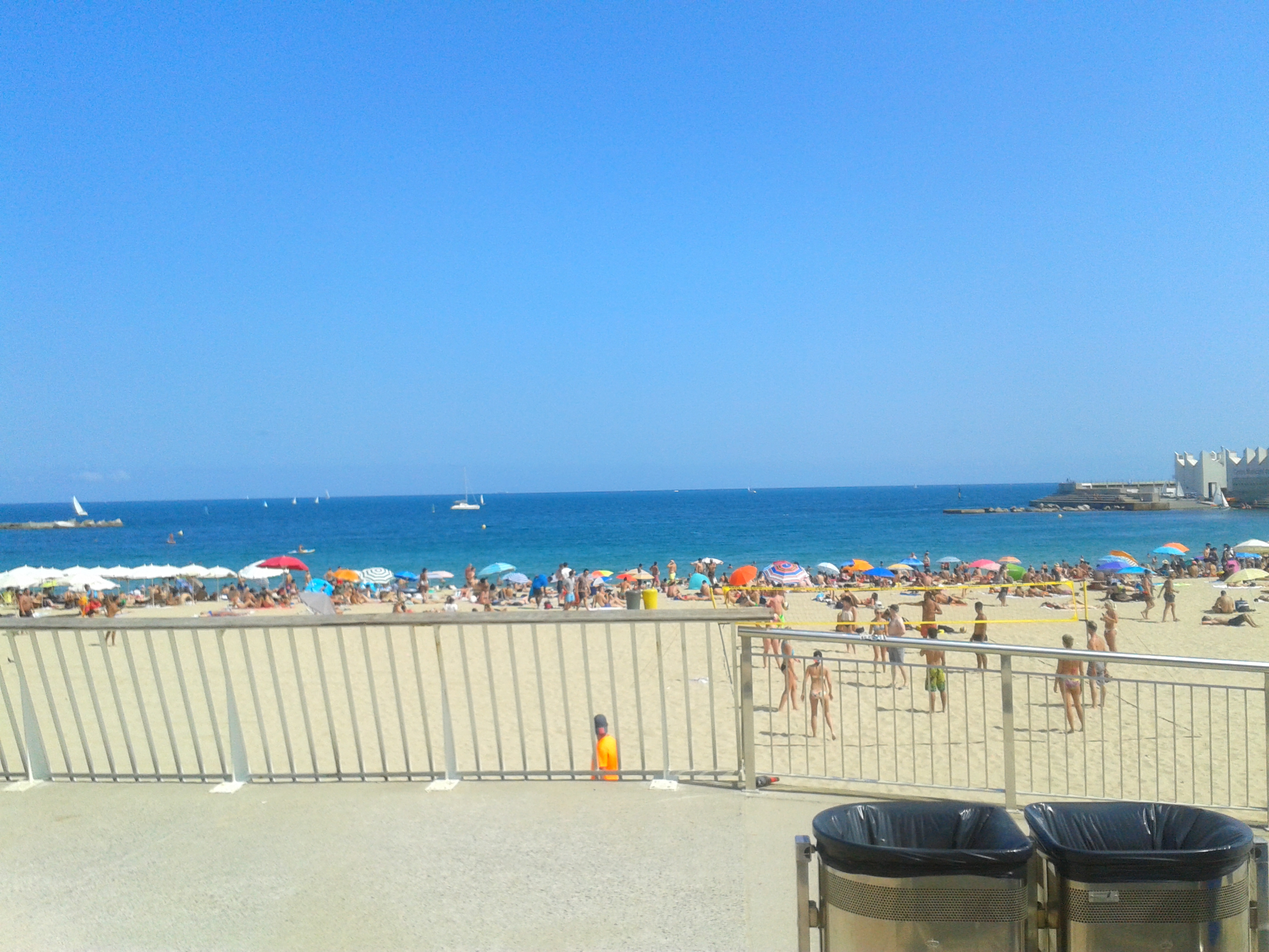
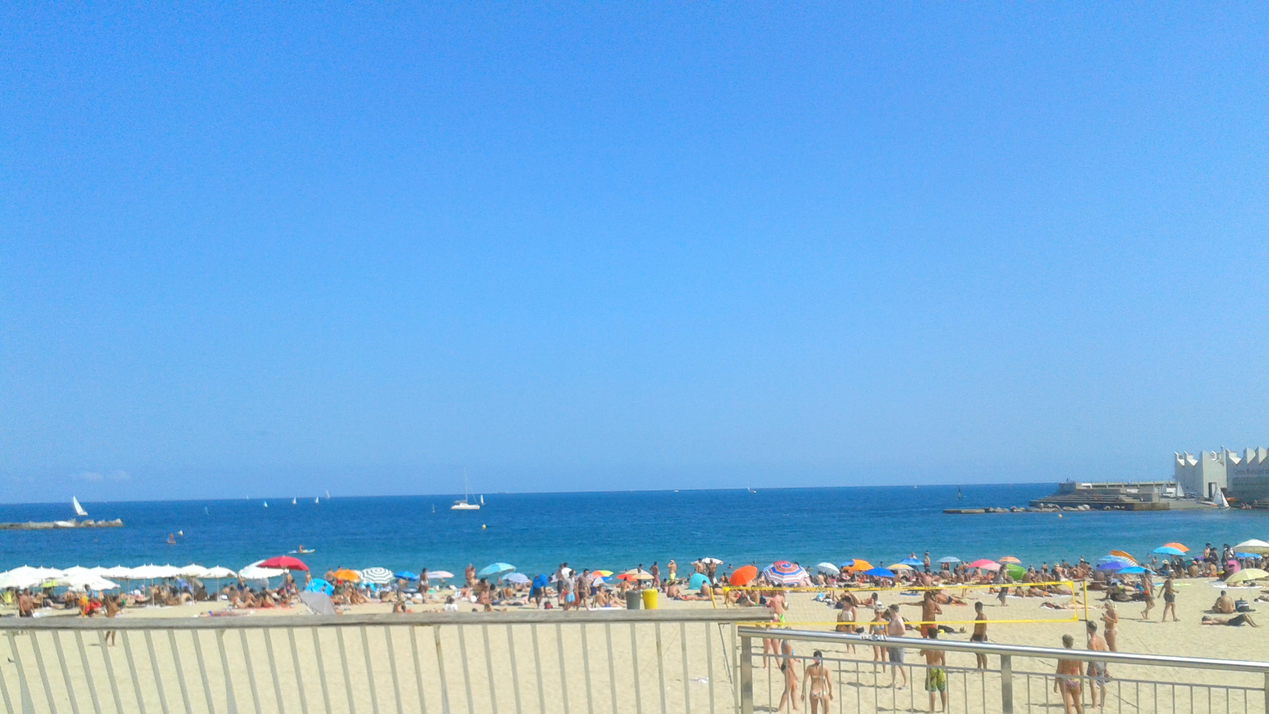
resize images and fix rotation

diff --git a/_includes/about.html b/_includes/about.html
@@ -9,7 +9,7 @@
       </div>
 
       <div class="col-lg-5 col-md-8 col-10 mx-auto">
-        <p><img src="{{ 'assets/img/about-1.jpeg' | relative_url }}" alt="" class="img-fluid rounded-circle"></p>
+        <p><img src="{{ 'assets/img/about.jpeg' | relative_url }}" alt="" class="img-fluid rounded-circle"></p>
       </div>
 
     </div>

diff --git a/_posts/2017-06-24-barcelona.md b/_posts/2017-06-24-barcelona.md
@@ -94,6 +94,6 @@ Y así, recordando, me doy cuenta de que es en las experiencias más efímeras d
 
 Your mexican friend, <br>Bronson
 
-{% assign path='posts/2017-06-24-barcelona/looking-cool.jpeg' %}
+{% assign path='posts/2017-06-24-barcelona/looking-cool.jpg' %}
 {% assign text='Hellou, señouritas' %}
 {% include post-image.html path=path text=text %}

diff --git a/_posts/2017-05-10-estado-mexico.md b/_posts/2017-05-10-estado-mexico.md
@@ -1,7 +1,7 @@
 ---
 place: Estado de México
 date: 2017-05-10 00:00:00 -06:00
-image: posts/2017-05-10-estado-mexico/aron-visuals-BXOXnQ26B7o-unsplash.jpg
+image: posts/2017-05-10-estado-mexico/hourglass.jpg
 ---
 
 Hola, mamá.
